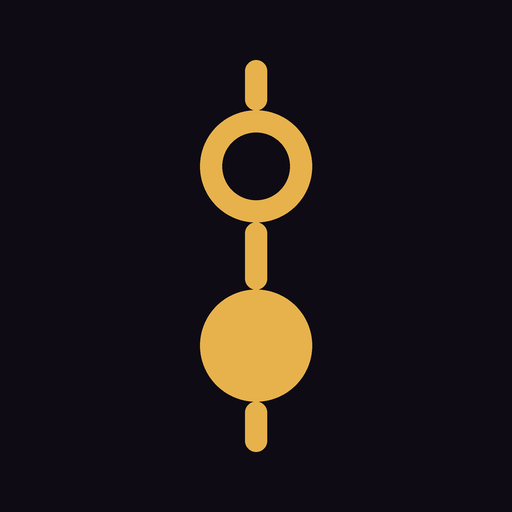
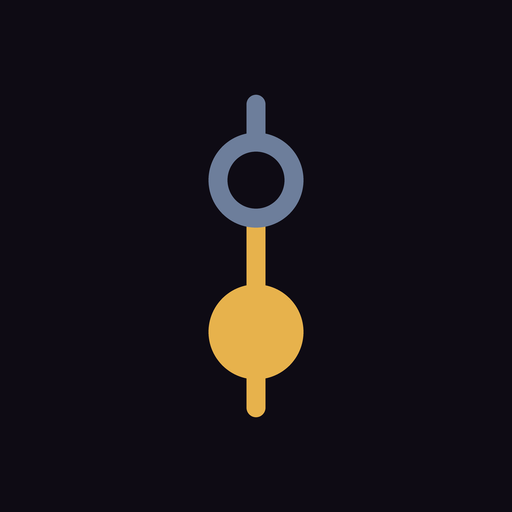
The mark obeys its own colour rule: Slate above the open Node
Amber is mine and it happened; Slate is the future. Every surface in the app
follows that, except the one thing that represents the app. The icon was amber
throughout, so the Node still ahead and the line running off the top read as
nights already had.

The open Node and the segment above it go Slate. Everything from that Node down
stays amber. This is the mark uploaded to the Play Store listing, except that
one carried an amber top segment too.

Adds tools/render_icon.py, because the two PNGs were hand-made once and had
already drifted from the vector. Both are now rendered from the same 108-unit
geometry the vector uses, so the next colour change lands on all three at once.

Part of #71.

diff --git a/tools/render_icon.py b/tools/render_icon.py
@@ -1,0 +1,68 @@
+"""Render the mark's PNGs from the same geometry as the Android vector.
+
+The Android icon is a vector and needs no raster. The App Store and the Play
+Store listing both want a PNG, and those two were hand-made once and then drifted
+from ic_launcher_foreground.xml. This keeps one source for the geometry, in the
+108-unit viewport the vector uses, so a colour change lands everywhere at once.
+
+    python tools/render_icon.py
+
+Compare against android/app/src/main/res/drawable/ic_launcher_foreground.xml —
+if that file changes, change this one too.
+"""
+
+from pathlib import Path
+
+from PIL import Image, ImageDraw
+
+GROUND = "#0E0B14"
+AMBER = "#E7B24C"  # mine, and it happened
+SLATE = "#6D7E9B"  # the future
+
+VIEWPORT = 108
+STROKE = 4
+RADIUS = 10
+SS = 8  # supersample; ImageDraw has no antialiasing of its own
+
+ROOT = Path(__file__).resolve().parent.parent
+TARGETS = [
+    (ROOT / "ios/StationToStation/Assets.xcassets/AppIcon.appiconset/icon-1024.png", 1024),
+    (ROOT / "docs/img/mark-512.png", 512),
+]
+
+
+def render(size: int) -> Image.Image:
+    px = size * SS
+    scale = px / VIEWPORT
+    img = Image.new("RGB", (px, px), GROUND)
+    d = ImageDraw.Draw(img)
+
+    def seg(y0, y1, colour):
+        # Round caps, as in the vector: a circle at each end plus the shaft.
+        x, r = 54 * scale, STROKE / 2 * scale
+        for y in (y0, y1):
+            cy = y * scale
+            d.ellipse([x - r, cy - r, x + r, cy + r], fill=colour)
+        d.rectangle([x - r, y0 * scale, x + r, y1 * scale], fill=colour)
+
+    def circle(cy, colour, filled):
+        x, y, r = 54 * scale, cy * scale, RADIUS * scale
+        box = [x - r, y - r, x + r, y + r]
+        if filled:
+            d.ellipse(box, fill=colour)
+        else:
+            d.ellipse(box, outline=colour, width=round(STROKE * scale))
+
+    seg(22, 28, SLATE)  # off the top: still to come
+    seg(48, 60, AMBER)
+    seg(80, 86, AMBER)
+    circle(38, SLATE, filled=False)
+    circle(70, AMBER, filled=True)
+
+    return img.resize((size, size), Image.LANCZOS)
+
+
+if __name__ == "__main__":
+    for path, size in TARGETS:
+        render(size).save(path)
+        print(f"{path.relative_to(ROOT)}  {size}x{size}")
